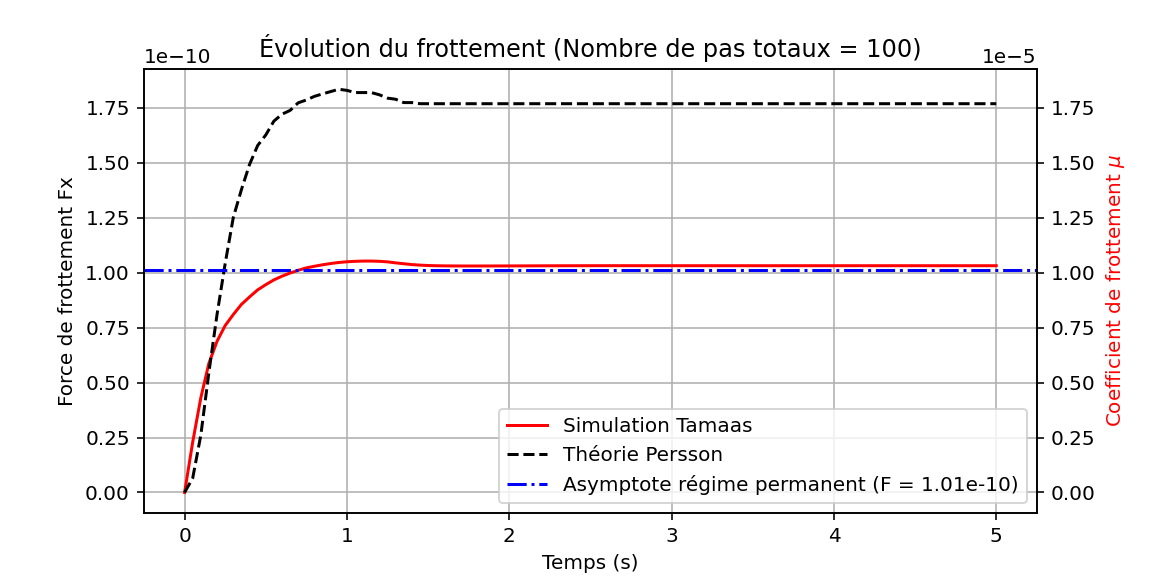
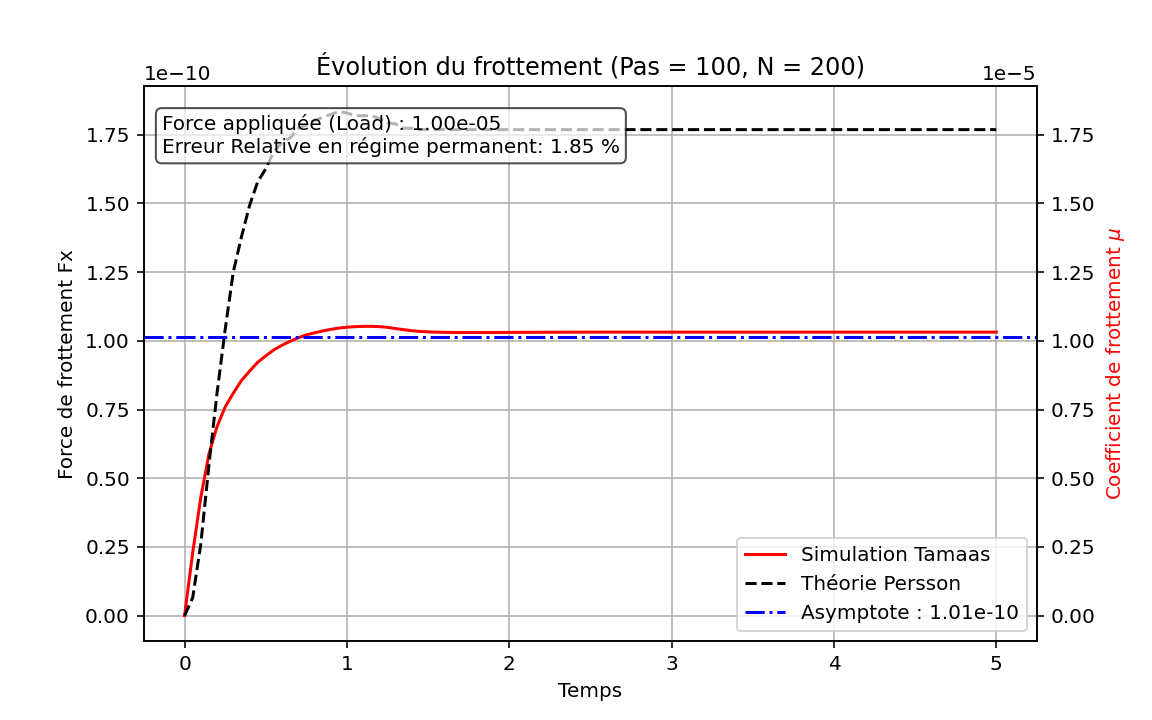
ajout du script avec surface sinusoidale

diff --git a/code_semaine_4/force_glissement_sinus.py b/code_semaine_4/force_glissement_sinus.py
@@ -107,8 +107,8 @@ offset = np.max(h_cut - u_cut) #prend l'ecart le plus grand entre surf rigide et
 
 u_plot = u_cut+ offset
 
-ax1.plot(x, h_cut , 'k', label='Solide rigide', lw=1.5)
-ax1.plot(x, u_plot, 'b-', label='Solide déformable', lw=1.5)
+ax1.plot(x, h_cut , 'k', label='Solide rigide')
+ax1.plot(x, u_plot, 'b-', label='Solide déformable')
 
 ax1.set(xlabel="Position x (m)", ylabel="Hauteur (µm)",title=f"Profil de contact (y={y_max}, Pas numéro {pas})")
 ax1.set(xlabel="Position x (m)", ylabel="Hauteur (µm)", title=f"Profil de contact (y={y_max}, Pas numéro {pas})")
@@ -203,29 +203,35 @@ solver_stat.solve(load)
 ft_asymptote = np.sum(model.traction * pente_x) * dS
 print(f"Force asymptotique (Carbone-Putignano) : {ft_asymptote:.4e}")
 
+#calcul de l'erreur relative entre la fin de la simulation et l'asymptote
+erreur_relative = abs(historique_ft[-1] - ft_asymptote) / ft_asymptote * 100
+force_totale_n = load * L**2 #force normale réelle appliquée
 
 
 #tracé de fx et mu
-fig_fx, ax_fx = plt.subplots(figsize=(8, 4))
+fig_fx, ax_fx = plt.subplots(figsize=(8, 5))
 ax_fx.plot(temps, historique_ft, 'r-', lw=1.5, label="Simulation Tamaas")
-ax_fx.plot(temps, F_analytique_t, 'k--', lw=1.5, label="Théorie Persson ")
+ax_fx.plot(temps, F_analytique_t, 'k--', lw=1.5, label="Théorie Persson")
 
 #ajout de l'asymptote sur le graphique
-ax_fx.axhline(y=ft_asymptote, color='b', linestyle='-.', label=f"Asymptote régime permanent (F = {ft_asymptote:.2e})")
+ax_fx.axhline(y=ft_asymptote, color='b', linestyle='-.', label=f"Asymptote : {ft_asymptote:.2e}")
 
-ax_fx.set(xlabel="Temps (s)", ylabel="Force de frottement Fx",title=f"Évolution du frottement (Nombre de pas totaux = {pas})")
+#ajout des infos de force appliquée et de l'erreur
+texte_info = (f"Force appliquée (Load) : {force_totale_n:.2e} \n" f"Erreur Relative en régime permanent: {erreur_relative:.2f} %")
+
+# On place la boîte de texte en haut à gauche (axes coords)
+ax_fx.text(0.02, 0.95, texte_info, transform=ax_fx.transAxes, fontsize=10,verticalalignment='top', bbox=dict(boxstyle='round', facecolor='white', alpha=0.7))
+
+
+ax_fx.set(xlabel="Temps", ylabel="Force de frottement Fx",title=f"Évolution du frottement (Pas = {pas}, N = {N})")
 ax_fx.grid()
-ax_fx.legend()
+ax_fx.legend(loc='lower right')
 
-#on ajoute mu sur la même courbe car c'est juste un coef de fx
+#ajout de mu sur le deuxième axe
 ax_mu = ax_fx.twinx()
 ymin, ymax = ax_fx.get_ylim()
 ax_mu.set_ylim(ymin / fn, ymax / fn)
 ax_mu.set_ylabel("Coefficient de frottement $\mu$", color='red')
 
-#enregistrement du fx(t) final avec le mu
 fig_fx.savefig(f"resultats/courbe_fx_total_step_{suff_pas}_load_{suff_load}_H_{suff_hurst}.png")
-if len(sys.argv) > 3:
-    plt.close(fig_fx)
-else: 
-    plt.show()
+plt.show()